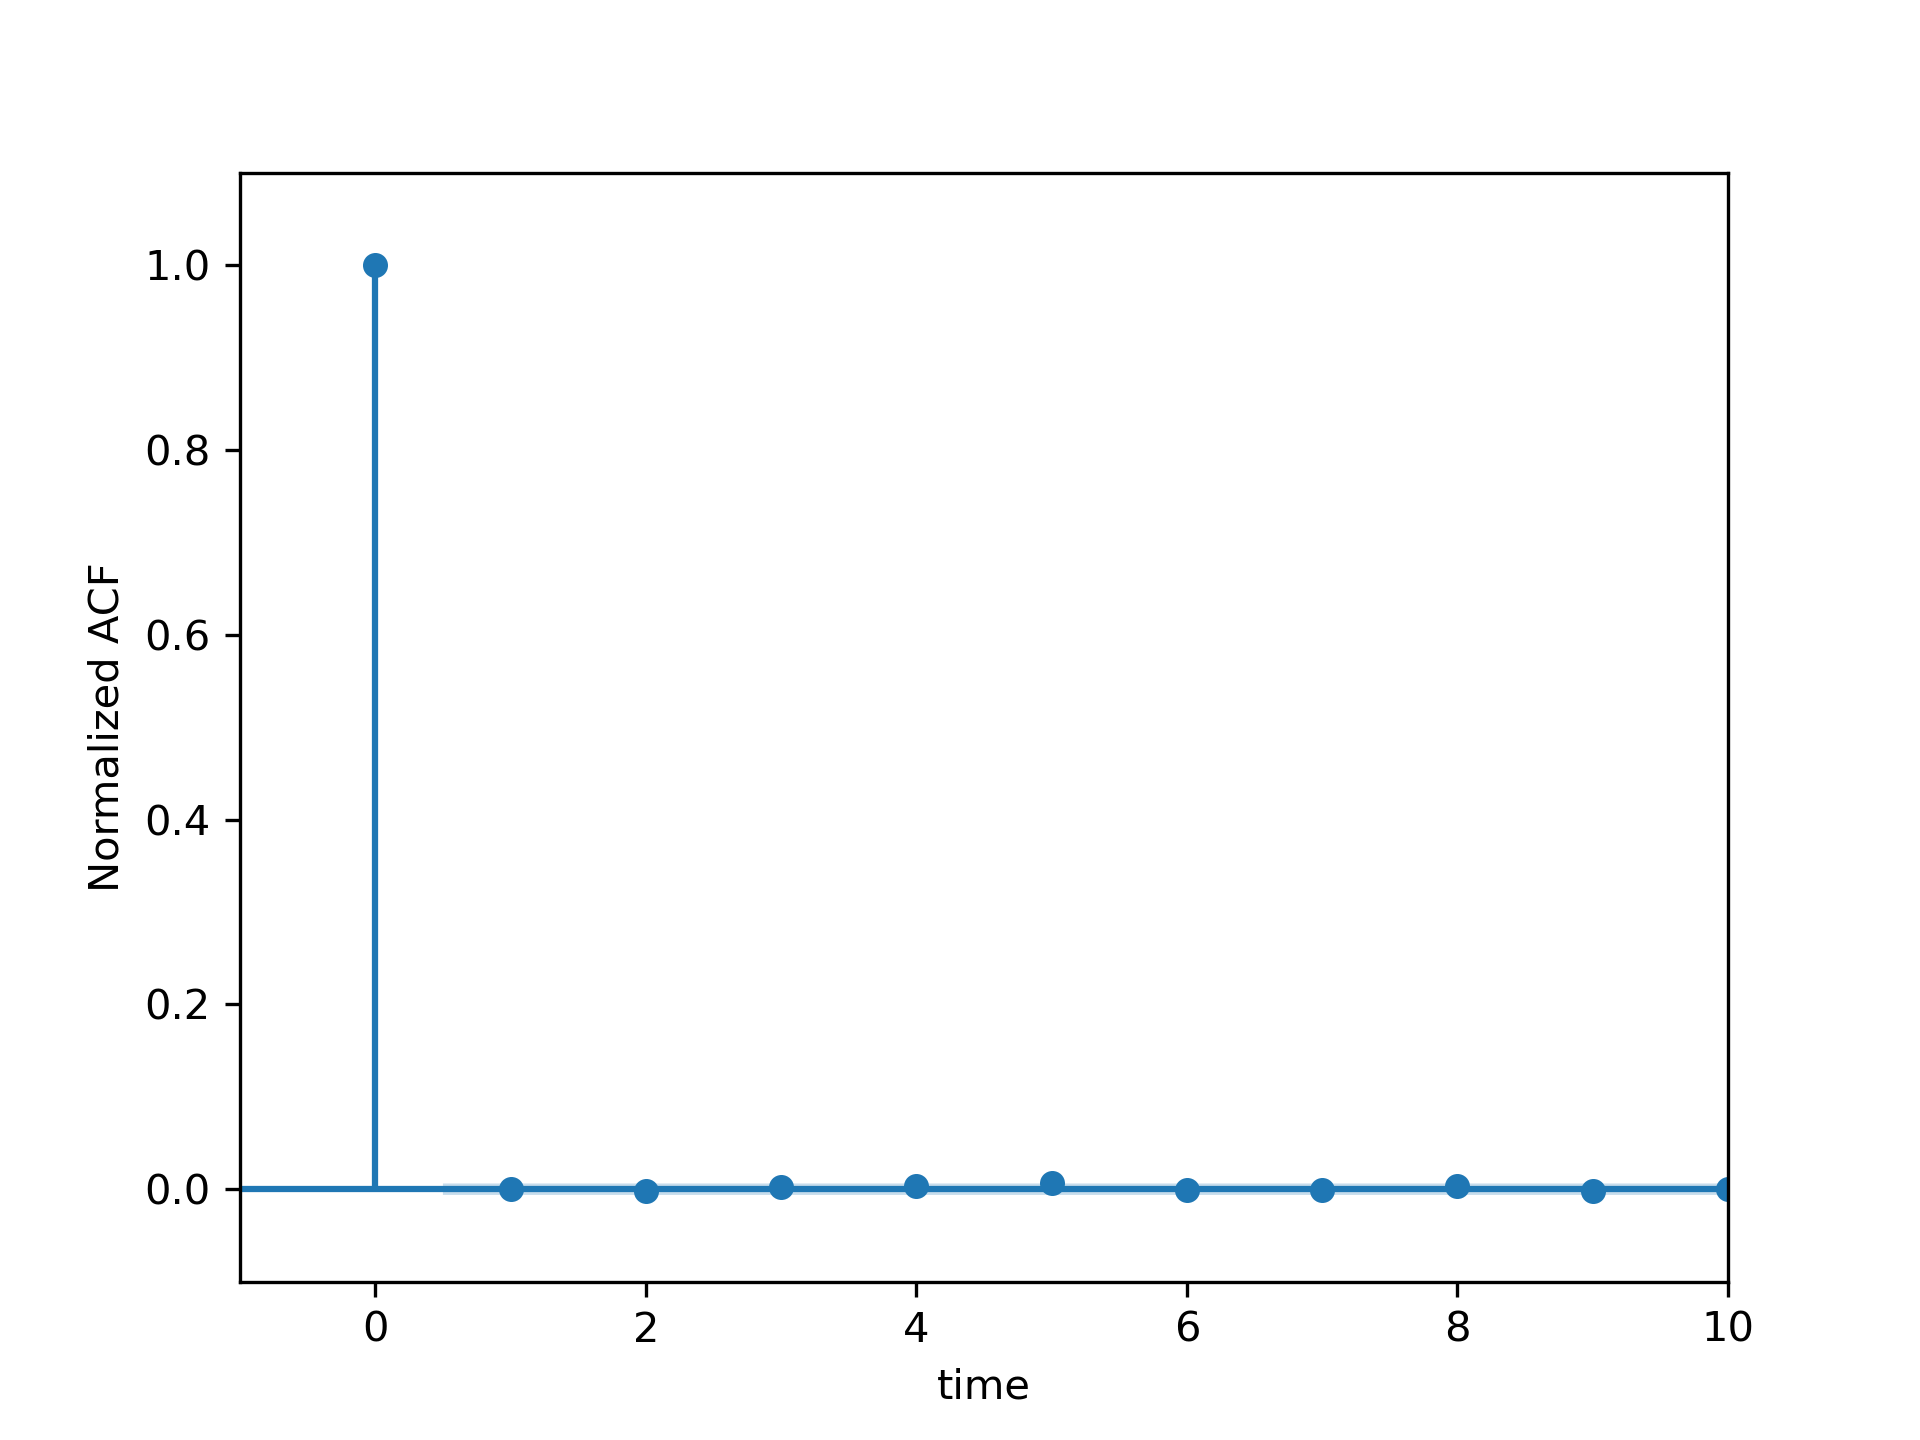
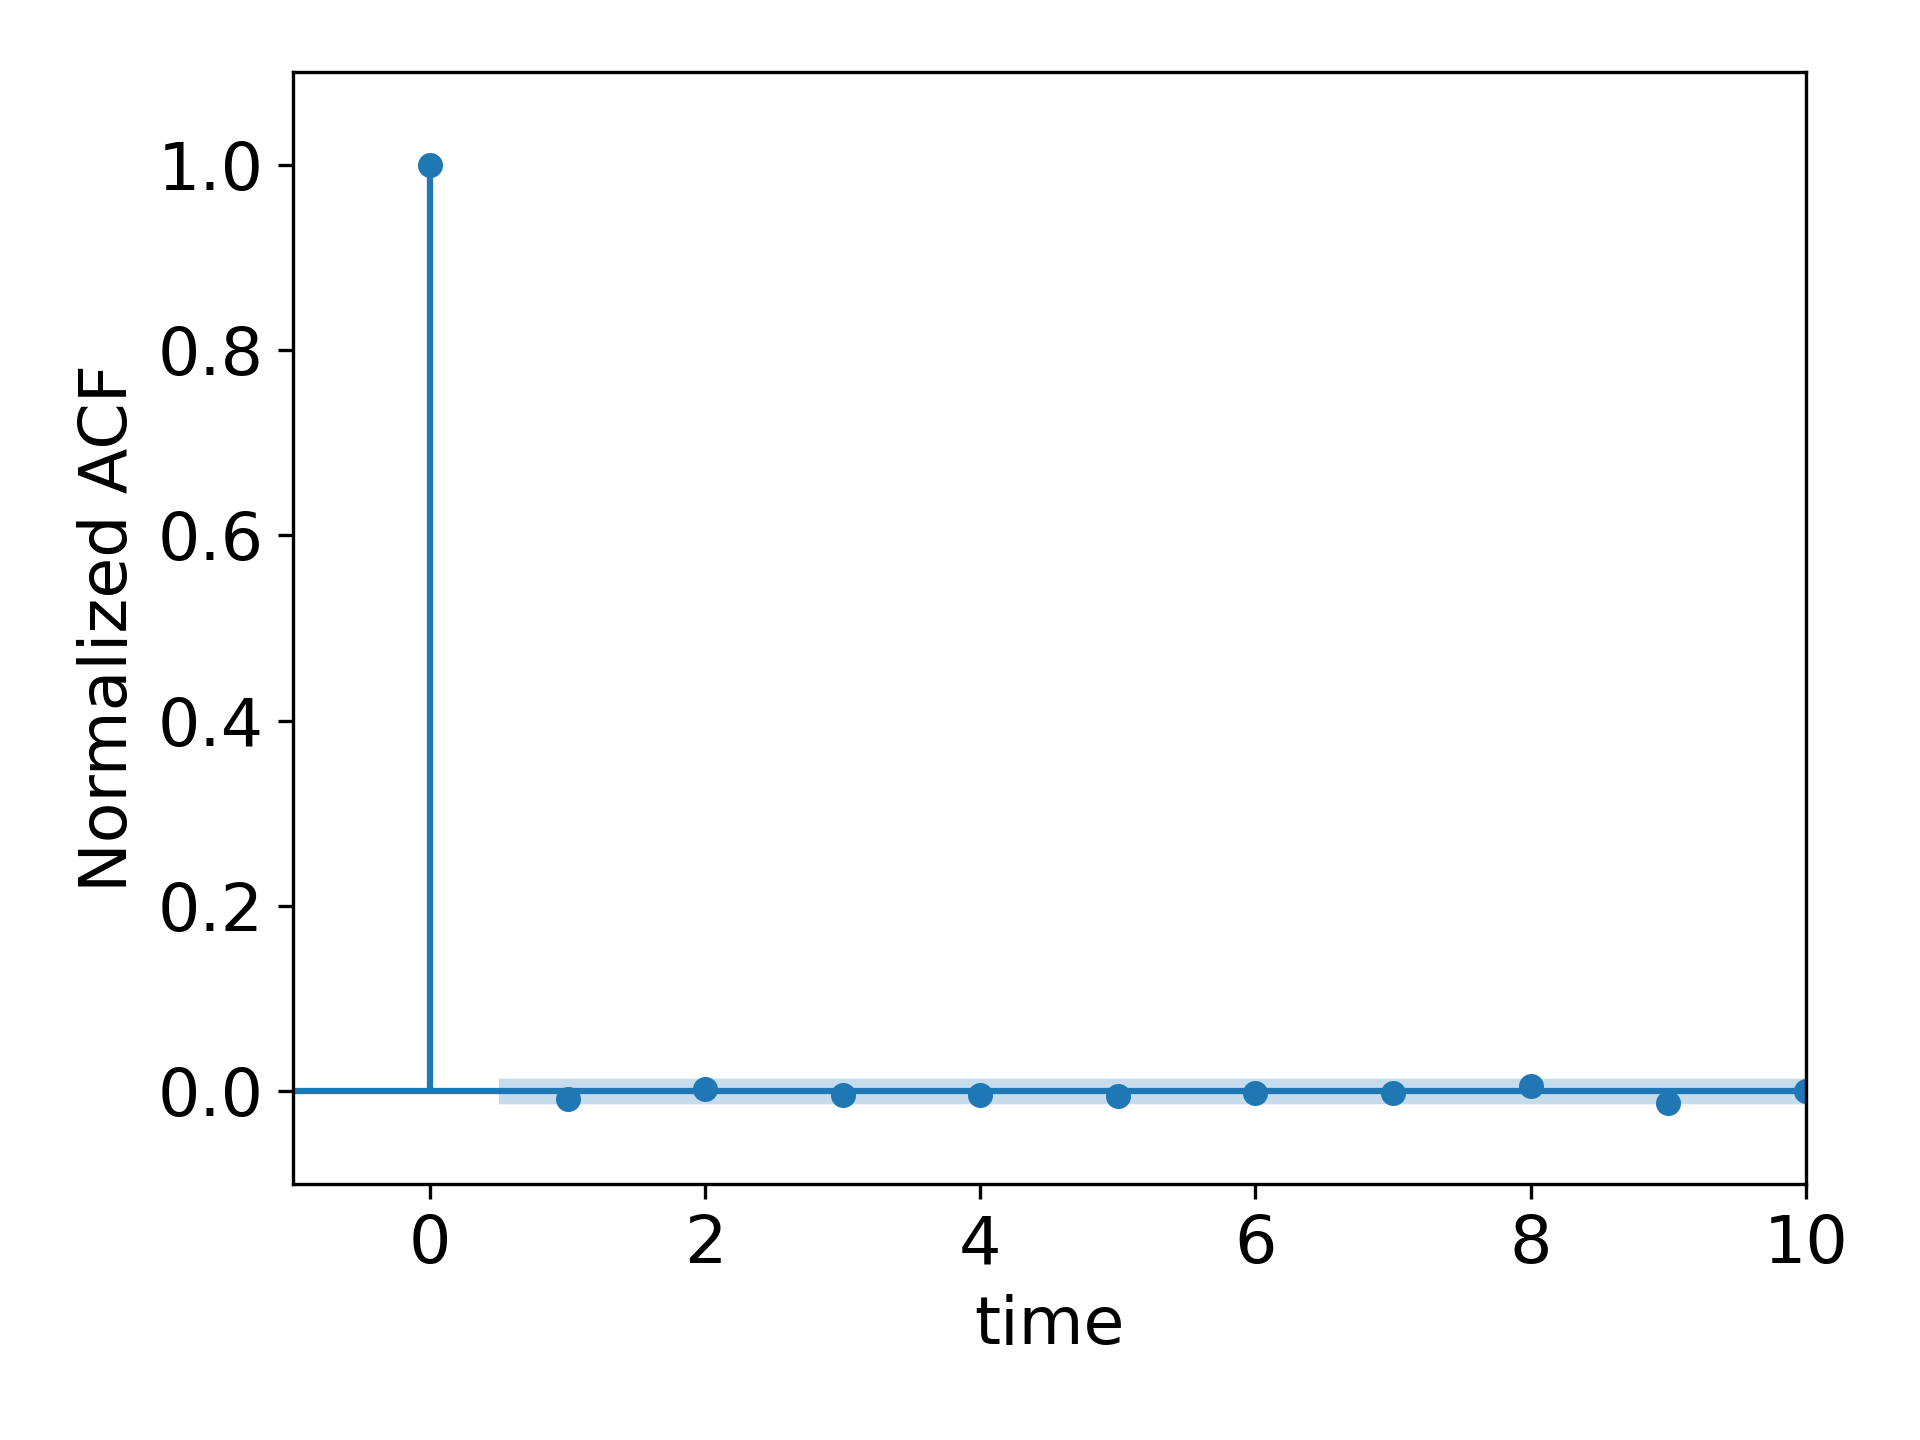
made report plots with bigger fontsize, added plots of full range of data without fits

Changed region(s): [[0.0312, 0.0938, 0.9688, 0.9688], [0.1562, 0.0312, 0.9375, 0.0625]]

diff --git a/quick_plots.py b/quick_plots.py
@@ -4,7 +4,7 @@ import pandas as pd
 import calc_exponents
 from uncertainties import unumpy as unp
 
-df = pd.read_csv('final_data2/3d-non_conservative-N20-abs_True_z4-closed/simulation_data/data_for_exponent_calculation.csv', sep=';')
+df = pd.read_csv('final_data2/2d-non_conservative-N100-abs_True_z4-closed/simulation_data/data_for_exponent_calculation.csv', sep=';')
 fit_funtion_mapping = {
     'P_of_S': ['total dissipation', '-'],
     'P_of_T': ['lifetime', '-'],
@@ -17,8 +17,8 @@ fit_funtion_mapping = {
     'E_of_L_T': ['spatial linear size', 'lifetime']
 }
 
-function_names = ['N(S=s)', 'N(T=$t_l$)', 'N(L=l)', 'E(S|T=$t_l$)', 'E(T|S=s)', 'E(S|L=l)', 'E(L|S=s)', 'E(T|L=l)', 'E(L|T=$t_l$)']
-function_vars = ['s', '$t_l', 'l', '$t_l$', 's', 'l', 's', 'l', '$t_l$', 'f']
+function_names = ['N(S=s)', 'N(T=$t_l$)', 'N(L=l)', 'E(S|T=$t_l$)', 'E(T|S=s)', 'E(S|L=l)', 'E(L|S=s)', 'E(T|L=l)', 'E(L|T=$t_l$)', 'S(f)']
+function_vars = ['s', '$t_l$', 'l', '$t_l$', 's', 'l', 's', 'l', '$t_l$', 'f']
 
 #time = df['time'].to_numpy()
 #mean = df['mean'].to_numpy()
@@ -46,4 +46,6 @@ for i, function in enumerate(fit_funtion_mapping):
     plt.ylabel(function_names[i], fontsize='14')
     plt.xlabel(function_vars[i], fontsize='14')
     plt.tick_params(axis='both', which='major', labelsize='14')
-    plt.show()
+    plt.savefig(f'{function}.jpg', dpi=300)
+    plt. clf()
+    #plt.show()

diff --git a/presentation/report_plots/make_autocorrelation_plot.py b/presentation/report_plots/make_autocorrelation_plot.py
@@ -3,7 +3,7 @@ import matplotlib.pyplot as plt
 import pandas as pd
 from statsmodels.graphics import tsaplots
 
-
+plt.rcParams.update({'font.size': 16})
 path_to_file = 'data_for_exponent_calculation.csv'
 
 df = pd.read_csv(path_to_file, sep=';', encoding='utf8')
@@ -15,4 +15,5 @@ plt.ylim(-0.1, 1.1)
 plt.ylabel('Normalized ACF')
 plt.xlabel('time')
 plt.title('')
+plt.tight_layout()
 plt.savefig('acf.png', dpi=300)

diff --git a/presentation/report_plots/make_qq_plot.py b/presentation/report_plots/make_qq_plot.py
@@ -42,6 +42,9 @@ t = np.array([1.50664831, 1.50423699, 1.49870545, 1.49623603, 1.49868256, 1.4989
 
 
 #create Q-Q plot with 45-degree line added to plot
+plt.rcParams.update({'font.size': 16})
 t = (t - np.mean(t)) / np.std(t)
 fig = sm.qqplot(t, line='45')
+plt.tight_layout()
+plt.savefig('qq_plot.png', dpi=300)
 plt.show()
